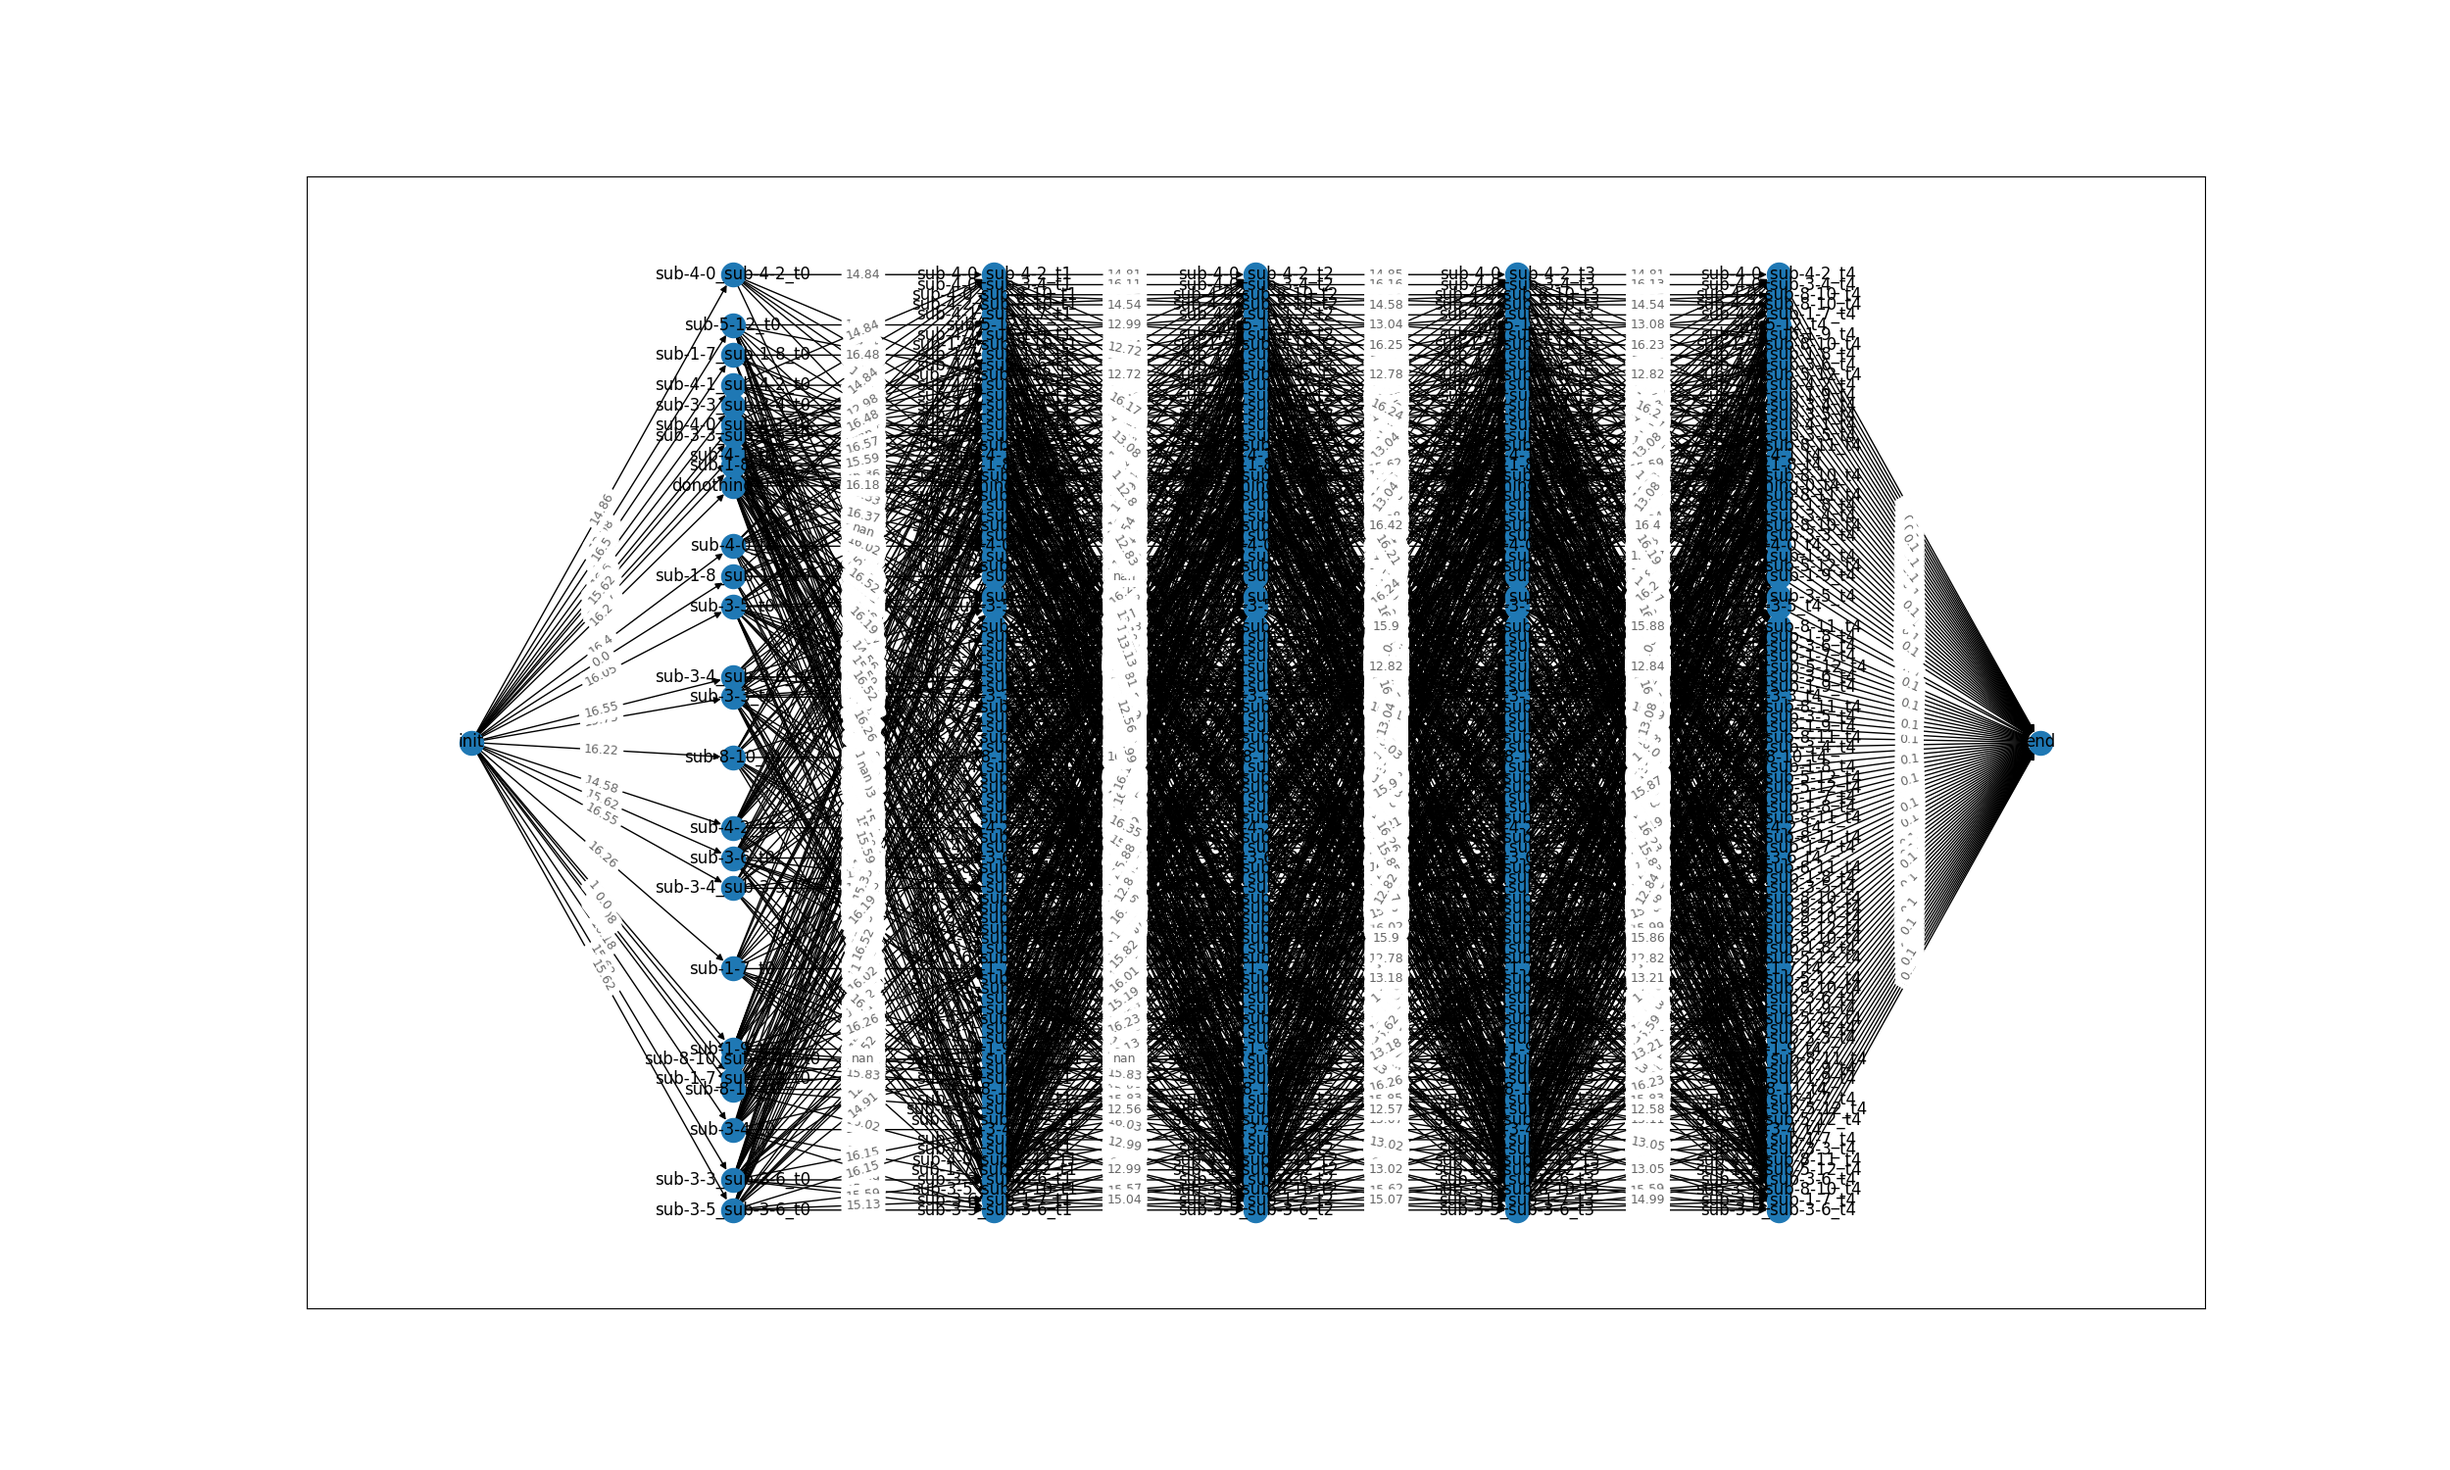
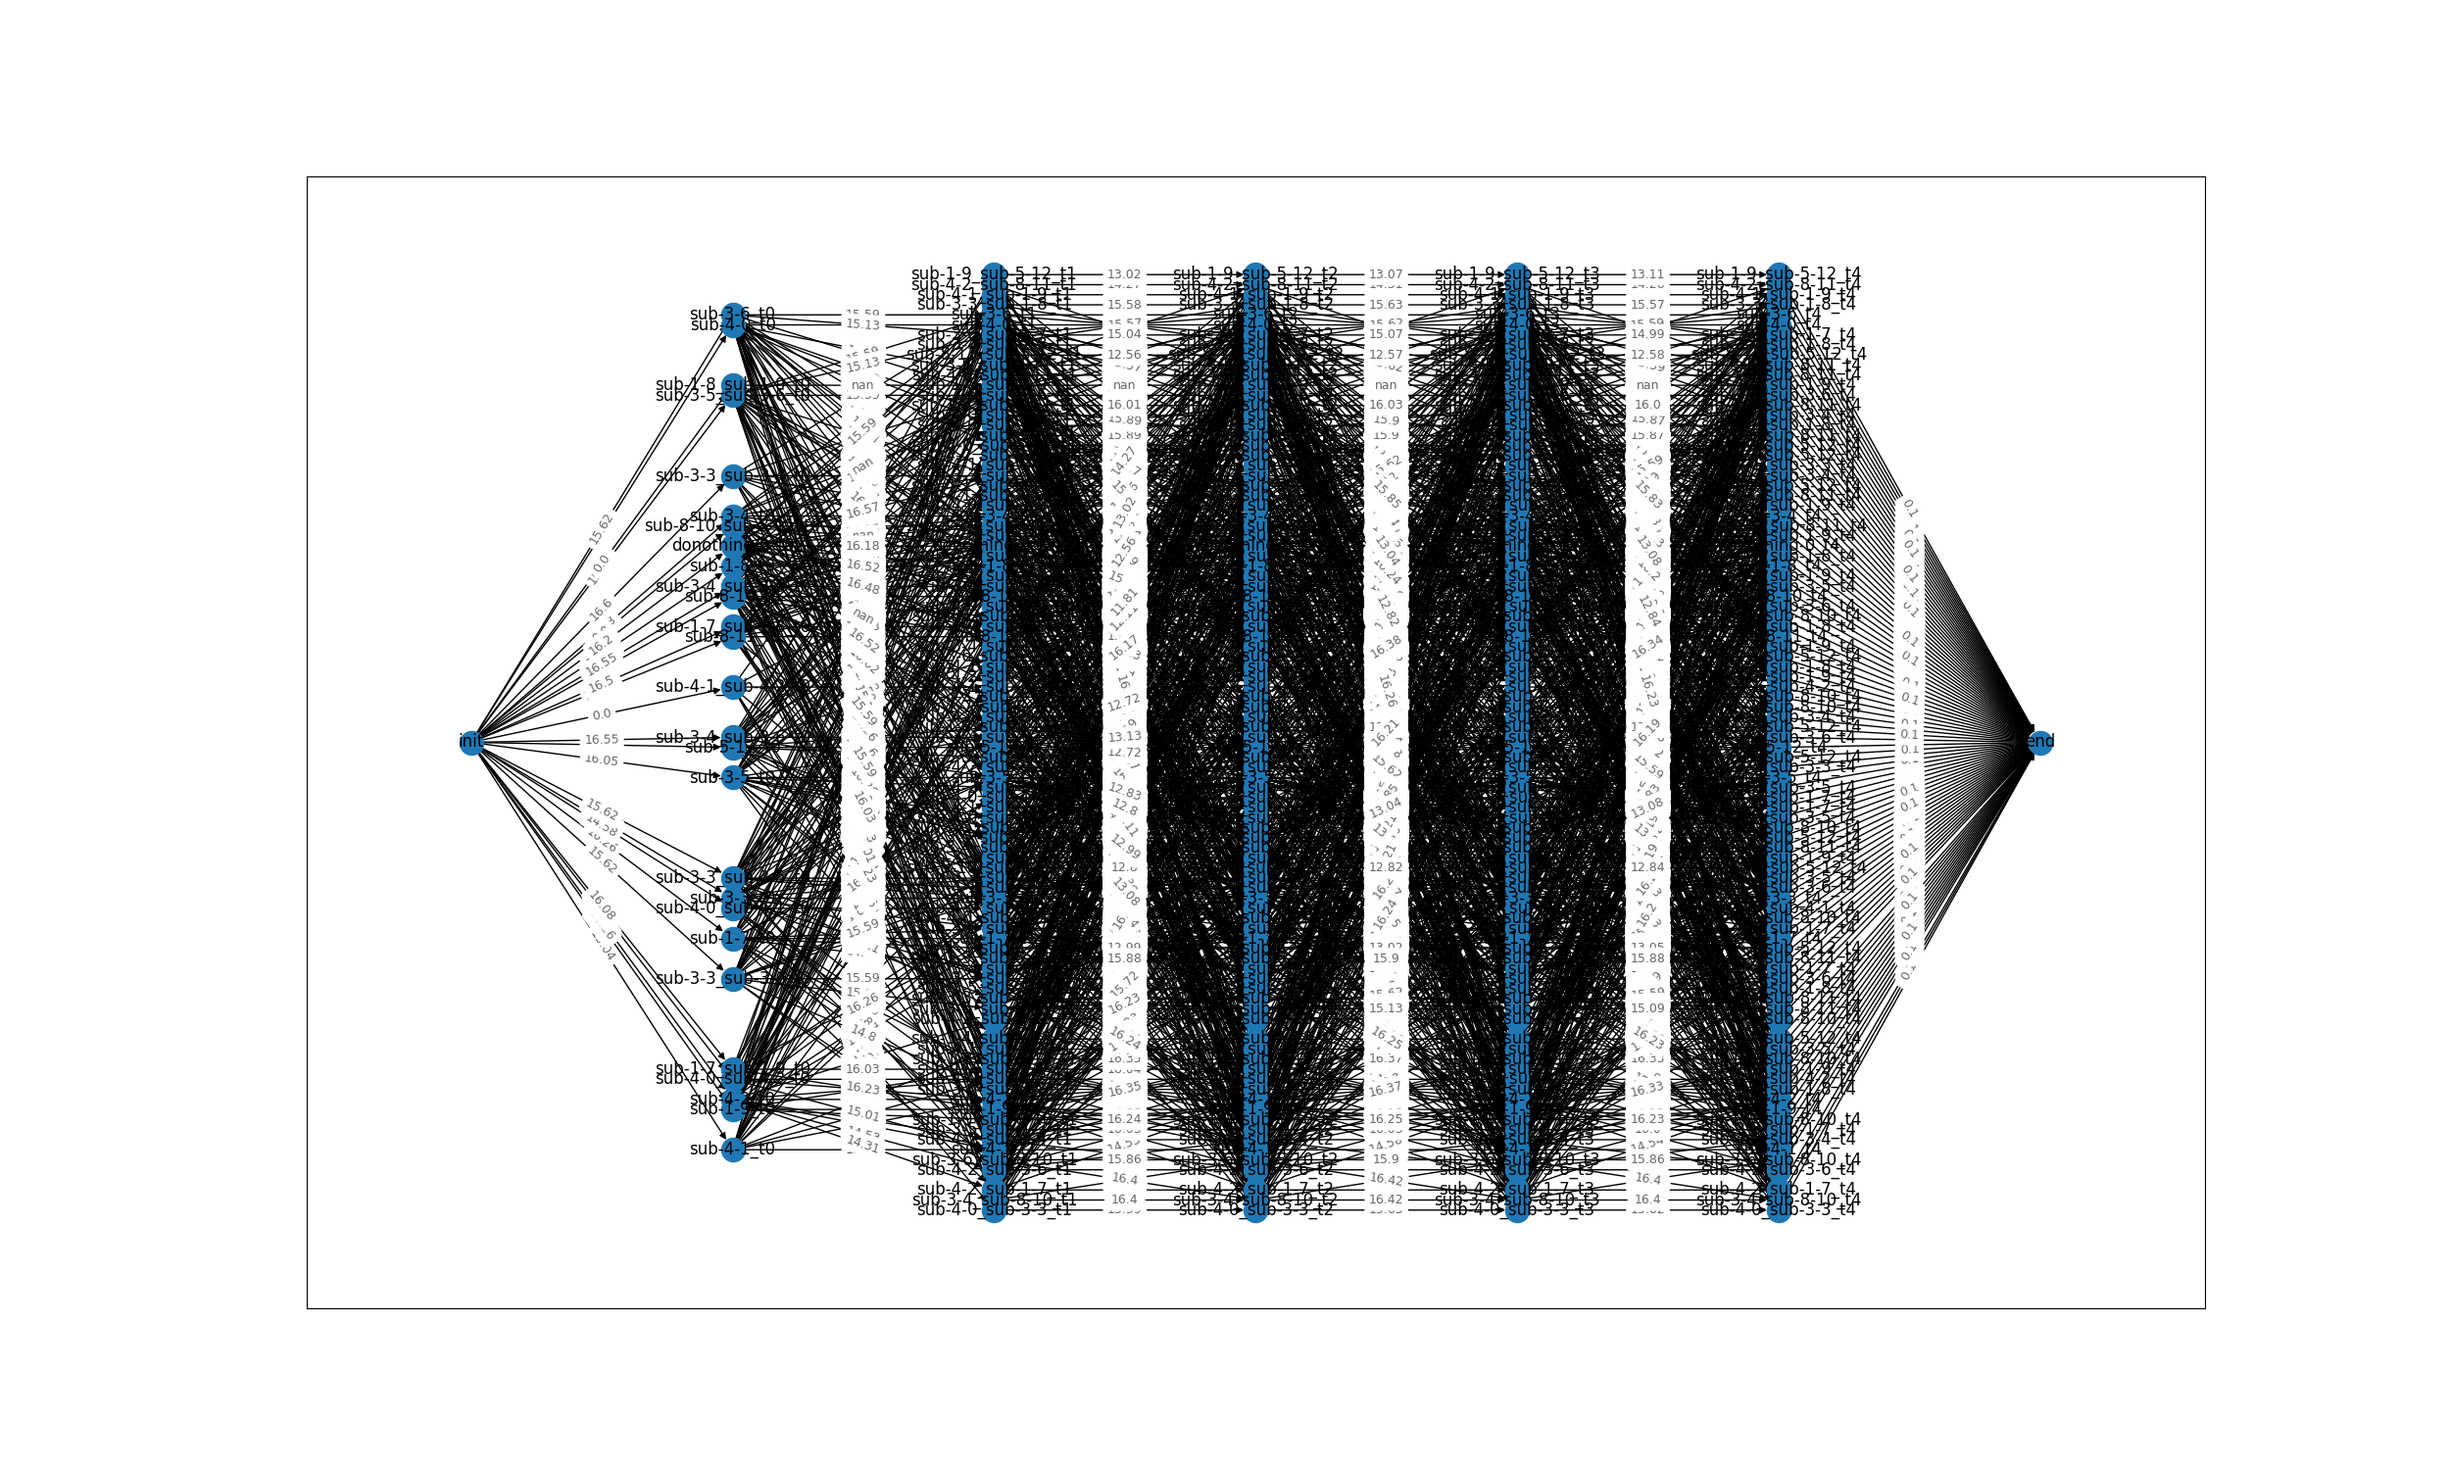
parser pour format action competition

Changed region(s): [[0.1872, 0.184, 0.78, 0.828], [0.78, 0.46, 0.8112, 0.4907]]

diff --git a/oracle4grid/core/utils/launch_utils.py b/oracle4grid/core/utils/launch_utils.py
@@ -7,6 +7,8 @@ from oracle4grid.core.oracle import oracle
 
 def load_and_run(env_dir, chronic, action_file, debug, config):
     atomic_actions, env, debug_directory = load(env_dir, chronic, action_file, debug)
+    # Parse atomic_actions format
+    atomic_actions = parse(atomic_actions,env)
     # Run all steps
     return oracle(atomic_actions, env, debug, config, debug_directory=debug_directory)
 
@@ -34,3 +36,62 @@ def init_debug_directory(env_dir, action_file, chronic):
     debug_directory = os.path.join("oracle4grid/output/", grid_file_os, scenario, action_file_os)
     os.makedirs(debug_directory, exist_ok=True)
     return debug_directory
+
+def parse(d, env):
+    if type(d) is list:
+        if 'set_bus' in list(d[0].keys()):
+            if 'substations_id' in list(d[0]['set_bus'].keys()):
+                # Format 1 detected
+                print("Specific format is detected for actions: converting with parser")
+                d = parser1(d,env)
+                return d
+    if type(d) is dict:
+        if 'sub' in list(d.keys()) or 'line' in list(d.keys()):
+            # Natural Oracle Format
+            return d
+    else:
+        raise ValueError("json action dict is in an unknown format")
+
+def parser1(d, env):
+    action_space = env.action_space
+    subs = set()
+    for action in d:
+        for sub_action in action['set_bus']['substations_id']:
+            sub = sub_action[0]
+            subs.add(sub)
+
+    # init new dict with subs
+    new_d = {'sub':{sub:[] for sub in subs}}
+
+    # Pas bonne idée, parcourir dans la boucle
+    grid = env.action_space.to_dict()
+
+    for action in d:
+        for sub_action in action['set_bus']['substations_id']:
+            subid = sub_action[0]
+            sub_topo = sub_action[1]
+
+            # On cherche les ids des gens, loads et lines_ex/or modifiées par l'action sub_topo (qui donne le nouveau bus)
+            # Generators
+            gen_ids = [id_ for id_,subid_ in enumerate(grid['gen_to_subid']) if subid_ == subid] # id des générateurs concernés par cette substation
+            new_action_on_gens = {"gens_id_bus":
+                                      [[id_,sub_topo[grid['gen_to_sub_pos'][id_]]] for id_ in gen_ids] # Couples id du générateur, nouveau bus donné par sub_topo
+                                  }
+            # Loads
+            load_ids = [id_ for id_, subid_ in enumerate(grid['load_to_subid']) if
+                       subid_ == subid]
+            new_action_on_loads = {"loads_id_bus":
+                                      [[id_, sub_topo[grid['load_to_sub_pos'][id_]]] for id_ in load_ids]
+                                  }
+            # Lines origins and extremities gathered
+            line_or_ids = [id_ for id_, subid_ in enumerate(grid['line_or_to_subid']) if
+                        subid_ == subid]
+            line_ex_ids = [id_ for id_, subid_ in enumerate(grid['line_ex_to_subid']) if
+                           subid_ == subid]
+            new_action_on_lines = {"lines_id_bus":
+                                       [[id_, sub_topo[grid['line_or_to_sub_pos'][id_]]] for id_ in line_or_ids]+[[id_, sub_topo[grid['line_ex_to_sub_pos'][id_]]] for id_ in line_ex_ids]
+                                   }
+            new_action = {**new_action_on_loads,**new_action_on_gens,**new_action_on_lines}
+            new_d['sub'][subid].append(new_action)
+    # TODO: lines
+    return new_d
